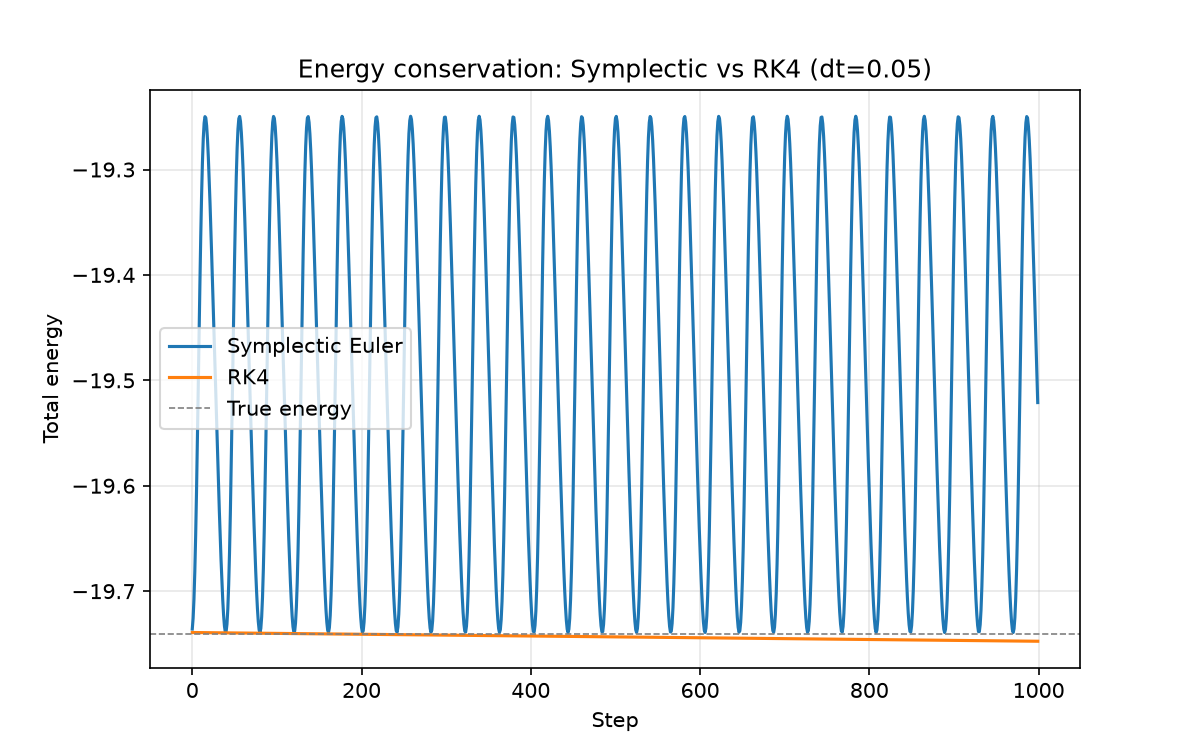
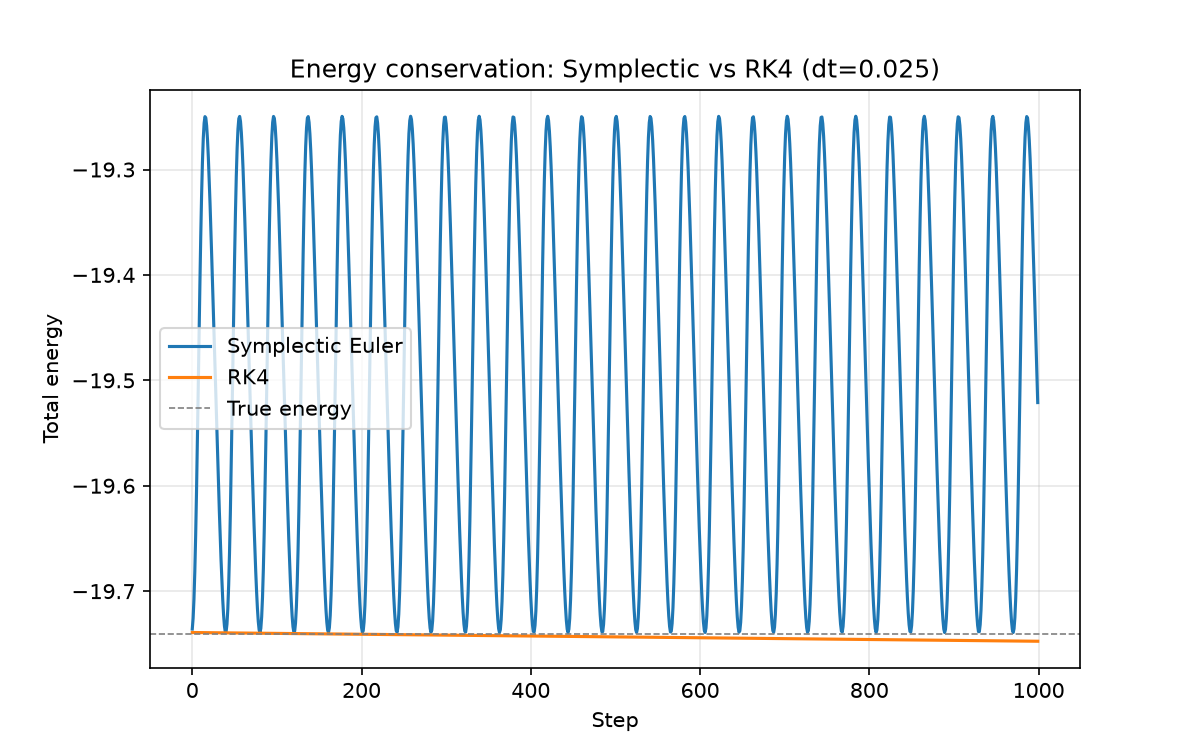
Angular momentum added

Changed region(s): [[0.2467, 0.0613, 0.7708, 0.1227]]

diff --git a/main.py b/main.py
@@ -1,7 +1,7 @@
 import numpy as np
 import matplotlib.pyplot as plt
 from src.bodies import Body
-from src.physics import acceleration, step_semi_implicit, step_explicit, energy, step_rk4
+from src.physics import acceleration, step_semi_implicit, step_explicit, energy, step_rk4, angular_momentum
 
 
 sun = Body("Sun", mass=1.0, position=[0, 0], velocity=[0, 0])
@@ -42,7 +42,32 @@ rk4_energy = []
 for i in range(steps):
     step_rk4(earth, sun.position, sun.mass, dt)
     rk4_energy.append(energy(earth, sun.position, sun.mass))
+# angular momentum comparison
+earth = Body("Earth", mass=3e-6, position=[1.0, 0.0], velocity=[0.0, 2*np.pi])
+symplectic_angular_momentum = []
+for i in range(steps):
+    step_semi_implicit(earth, sun.position, sun.mass, dt)
+    symplectic_angular_momentum.append(angular_momentum(earth))
 
+earth = Body("Earth", mass=3e-6, position=[1.0, 0.0], velocity=[0.0, 2*np.pi])
+rk4_angular_momentum = []
+for i in range(steps):
+    step_rk4(earth, sun.position, sun.mass, dt)
+    rk4_angular_momentum.append(angular_momentum(earth))
+# Angular momentum plot
+plt.figure(figsize=(8, 5))
+true_L = 2 * np.pi
+plt.plot(symplectic_angular_momentum, label="Symplectic Euler")
+plt.plot(rk4_angular_momentum, label="RK4")
+plt.xlabel("Step")
+plt.ylabel("Angular momentum")
+plt.title("Angular momentum conservation: Symplectic vs RK4 (dt=0.025)")
+plt.axhline(true_L, color='gray', linestyle='--',
+            linewidth=0.8, label="True angular momentum")
+plt.legend()
+plt.grid(True, alpha=0.3)
+plt.savefig("angular_momentum_comparison.png", dpi=150)
+plt.show()
 # Energy plot
 plt.figure(figsize=(8, 5))
 plt.plot(symplectic_energy, label="Symplectic Euler")
@@ -51,7 +76,7 @@ plt.axhline(-19.7402, color='gray', linestyle='--',
             linewidth=0.8, label="True energy")
 plt.xlabel("Step")
 plt.ylabel("Total energy")
-plt.title("Energy conservation: Symplectic vs RK4 (dt=0.05)")
+plt.title("Energy conservation: Symplectic vs RK4 (dt=0.025)")
 plt.legend()
 plt.grid(True, alpha=0.3)
 plt.savefig("energy_comparison.png", dpi=150)
@@ -67,7 +92,7 @@ plt.plot(0, 0, 'yo', markersize=15, label="Sun")
 plt.gca().set_aspect('equal')
 plt.xlabel("x (AU)")
 plt.ylabel("y (AU)")
-plt.title("Earth's orbit: Symplectic vs Forward Euler vs RK4 (dt=0.05)")
+plt.title("Earth's orbit: Symplectic vs Forward Euler vs RK4 (dt=0.025)")
 plt.legend()
 plt.grid(True, alpha=0.3)
 plt.savefig("orbit_comparison.png", dpi=150)

diff --git a/src/physics.py b/src/physics.py
@@ -1,5 +1,5 @@
 import numpy as np
-
+from src.bodies import Body
 G = 4 * np.pi**2
 
 
@@ -53,3 +53,9 @@ def step_rk4(body, other_pos, other_mass, dt):
 
     body.position = r1 + dt/6 * (k1r + 2*k2r + 2*k3r + k4r)
     body.velocity = v1 + dt/6 * (k1v + 2*k2v + 2*k3v + k4v)
+
+
+def angular_momentum(body):
+    x, y = body.position
+    vx, vy = body.velocity
+    return x * vy - y * vx
